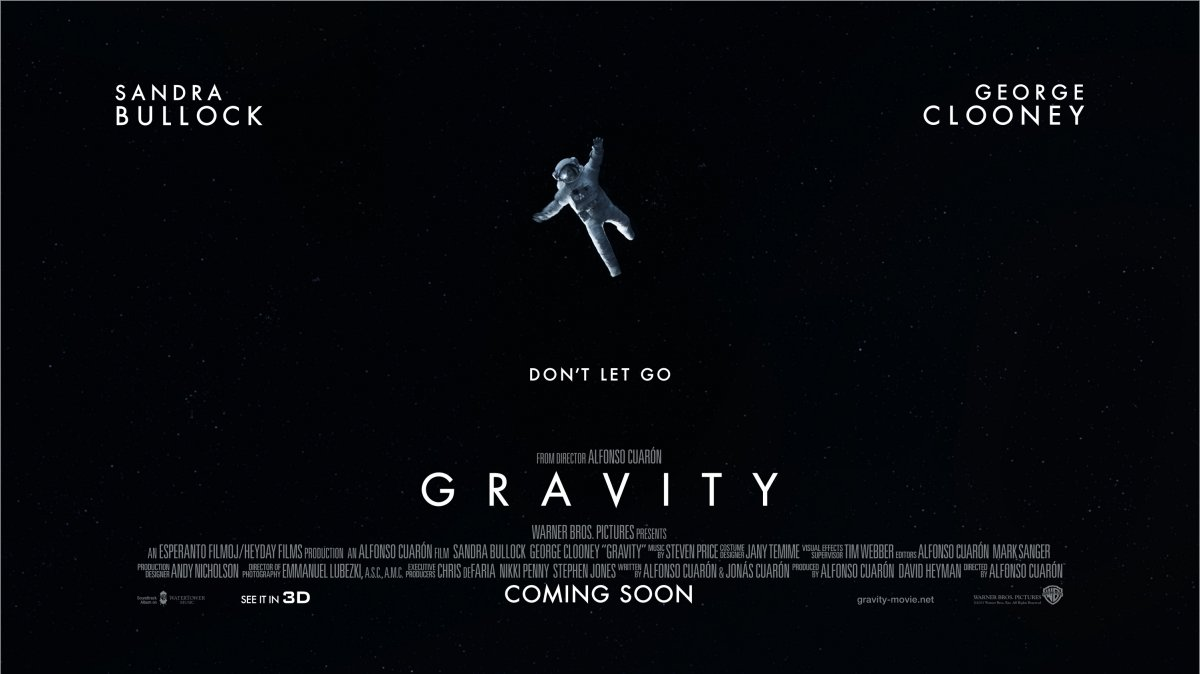
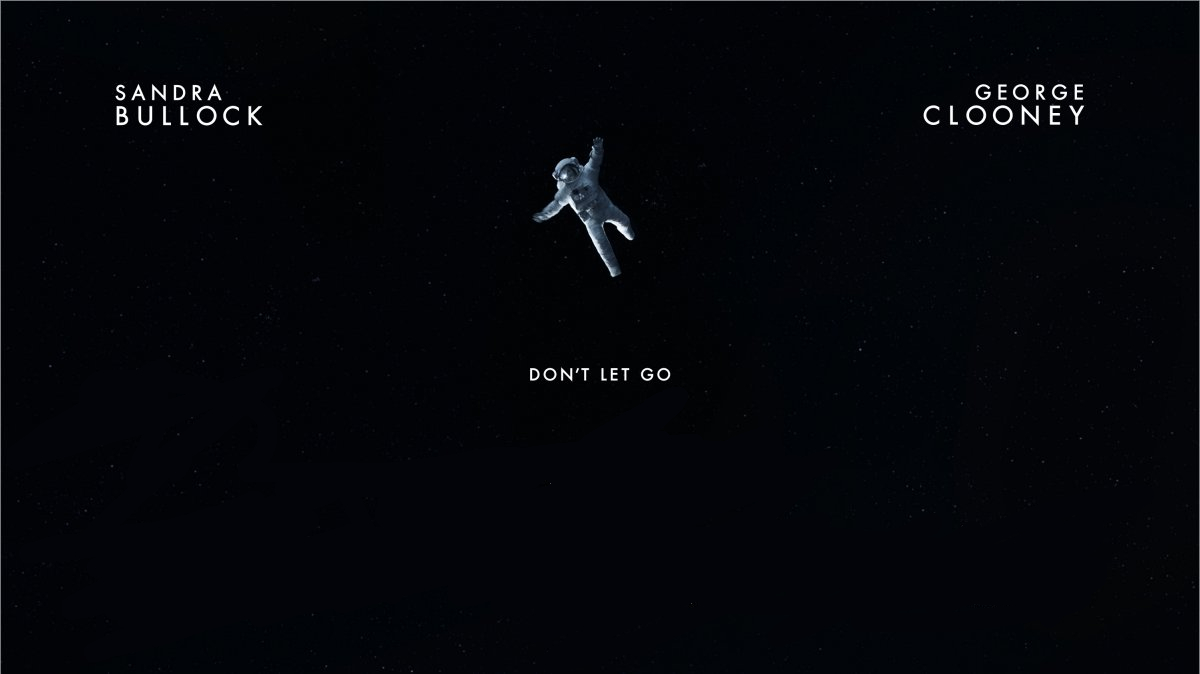
update index, added viewified frontpage.html

Changed region(s): [[0.1233, 0.7789, 0.8942, 0.9036], [0.3392, 0.6543, 0.555, 0.7478], [0.5858, 0.6855, 0.6475, 0.7478]]

diff --git a/src/main/webapp/app/feature/frontpage/frontpage.html b/src/main/webapp/app/feature/frontpage/frontpage.html
@@ -1,0 +1,81 @@
+
+<div ng-controller="frontpagecontroller as fpctrl">
+
+
+	<a ui-sref="frontpage"> Click me!!!</a>
+
+	<div id="myCarousel" class="carousel slide" data-ride="carousel"
+		data-target="#mycarousel">
+		<!-- Indicators -->
+		<ol class="carousel-indicators">
+			<li data-target="#myCarousel" data-slide-to="0"></li>
+			<li data-target="#myCarousel" data-slide-to="1" class="active"></li>
+			<li data-target="#myCarousel" data-slide-to="2"></li>
+		</ol>
+
+		<!-- Wrapper for slides -->
+		<div class="carousel-inner" role="listbox">
+			<div class="item active">
+				<img class="img-responsive" src="images/posters/gravity-poster.jpg"
+					alt="Gravity" />
+				<div class="container myCarouselCaption">
+					<div class="carousel-caption d-none d-md-block text-left">
+						<h1>Example headline.</h1>
+						<p>Cras justo odio, dapibus ac facilisis in, egestas eget
+							quam. Donec id elit non mi porta gravida at eget metus. Nullam id
+							dolor id nibh ultricies vehicula ut id elit.</p>
+						<p>
+							<a class="btn btn-lg btn-primary" href="#" role="button">Sign
+								up today</a>
+						</p>
+					</div>
+				</div>
+			</div>
+
+			<div class="item">
+				<img class="img-responsive" src="images/posters/looper-poster.jpg"
+					alt="Looper" />
+				<div class="container myCarouselCaption">
+					<div class="carousel-caption d-none d-md-block text-left">
+						<h1>Example headline.</h1>
+						<p>Cras justo odio, dapibus ac facilisis in, egestas eget
+							quam. Donec id elit non mi porta gravida at eget metus. Nullam id
+							dolor id nibh ultricies vehicula ut id elit.</p>
+						<p>
+							<a class="btn btn-lg btn-primary" role="button">Sign up today</a>
+						</p>
+					</div>
+				</div>
+			</div>
+
+			<div class="item">
+				<img class="img-responsive" src="images/posters/oblivion-poster.jpg"
+					alt="Oblivion" />
+				<div class="container myCarouselCaption">
+					<div class="carousel-caption d-none d-md-block text-left ">
+						<h1>Example headline.</h1>
+						<p>Cras justo odio, dapibus ac facilisis in, egestas eget
+							quam. Donec id elit non mi porta gravida at eget metus. Nullam id
+							dolor id nibh ultricies vehicula ut id elit.</p>
+						<p>
+							<a class="btn btn-lg btn-primary" href="#" role="button">Sign
+								up today</a>
+						</p>
+					</div>
+				</div>
+			</div>
+
+		</div>
+
+		<!-- Left and right controls -->
+		<a class="left carousel-control" data-target="#myCarousel"
+			role="button" data-slide="prev"> <span
+			class="glyphicon glyphicon-chevron-left" aria-hidden="true"></span> <span
+			class="sr-only">Previous</span>
+		</a> <a class="right carousel-control" data-target="#myCarousel"
+			role="button" data-slide="next"> <span
+			class="glyphicon glyphicon-chevron-right" aria-hidden="true"></span>
+			<span class="sr-only">Next</span>
+		</a>
+	</div>
+</div>

diff --git a/src/main/webapp/FrontPage.html b/src/main/webapp/FrontPage.html
@@ -1,49 +1,4 @@
-<!DOCTYPE html>
-<html ng-app>
-<head>
-<title>QA Cinemas</title>
-<meta charset="UTF-8">
-<meta name="viewport" content="width=device-width, initial-scale=1">
-<link rel="stylesheet" href="css/bootstrap.min.css">
-<link rel="stylesheet" href="css/style.css" type="text/css" />
-<link rel="stylesheet" href="css/header.css" type="text/css" />
-<script src="jquery-1.10.2.js"></script>
-<script
-	src="https://ajax.googleapis.com/ajax/libs/jquery/3.1.1/jquery.min.js"></script>
-<script src="js/bootstrap.min.js"></script>
-</head>
-
-
-<body>
-	<nav class="navbar navbar-inverse">
-		<div class="container-fluid">
-			<div class="navbar-header">
-				<a class="navbar-brand" href="about.html"> <img
-					class="img-responsive" src="images/logo.png" alt="QA Cinema Logo"></a>
-				<button type="button" class="navbar-toggle" data-toggle="collapse"
-					data-target="#myNavbar">
-					<span class="icon-bar"></span> <span class="icon-bar"></span> <span
-						class="icon-bar"></span>
-				</button>
-			</div>
-			<div class="collapse navbar-collapse" id="myNavbar">
-				<ul class="nav navbar-nav">
-					<li class="active"><a href="#">Home</a></li>
-					<li><a href="#">What's On</a></li>
-					<li><a href="#">About</a></li>
-					<li><a href="#">Facilities</a></li>
-					<li><a href="#">Booking</a></li>
-				</ul>
-				<ul class="nav navbar-nav navbar-right">
-					<li><a href="#"><span class="glyphicon glyphicon-user"></span>
-							Sign Up</a></li>
-					<li><a href="#"><span class="glyphicon glyphicon-log-in"></span>
-							Login</a></li>
-				</ul>
-			</div>
-		</div>
-	</nav>
-
+<div>
 
 	<div id="myCarousel" class="carousel slide" data-ride="carousel">
 		<!-- Indicators -->
@@ -55,16 +10,19 @@
 
 		<!-- Wrapper for slides -->
 		<div class="carousel-inner" role="listbox">
-			<div class="item">
-				<img src="images/posters/gravity-poster.jpg" alt="Gravity">
-			</div>
-
 			<div class="item active">
-				<img src="images/posters/looper-poster.jpg" alt="Looper">
+				<img class="img-responsive" src="images/posters/gravity-poster.jpg"
+					alt="Gravity">
 			</div>
 
 			<div class="item">
-				<img src="images/posters/oblivion-poster.jpg" alt="Flower">
+				<img class="img-responsive" src="images/posters/looper-poster.jpg"
+					alt="Looper">
+			</div>
+
+			<div class="item">
+				<img class="img-responsive" src="images/posters/oblivion-poster.jpg"
+					alt="Oblivion">
 			</div>
 
 		</div>
@@ -79,7 +37,5 @@
 			<span class="sr-only">Next</span>
 		</a>
 	</div>
-</body>
-<script src="js/angular.min.js"></script>
-
-</html>
+	<script src="js/angular.min.js"></script>
+</div>

diff --git a/src/main/webapp/index.html b/src/main/webapp/index.html
@@ -1,20 +1,28 @@
 <!DOCTYPE html>
-<html lang="en" ng-app="bookStore">
+<html lang="en" ng-app="QACinema">
 <head>
+<meta name="viewport" content="width=device-width, initial-scale=1">
+<link rel="stylesheet" href="css/bootstrap.min.css">
+<link rel="stylesheet" href="css/style.css">
 
 <meta charset="UTF-8">
-<title>Book Store</title>
+<title>QACinema</title>
 </head>
 
+<body>
+
 	<h1>TEMPLATE</h1>
-	<a ui-sref="book"> Click me!!!</a>
-	<div ui-view>
+	<a ui-sref="frontpage"> Click me!!!</a>
+	<div ui-view class="myWindow">
+
 		<script src="js/angular.js"></script>
 		<script src="js/angular-ui-router.js"></script>
 		<script src="app/app.js"></script>
 		<script src="app/app-state-manager.js"></script>
-		<script src="app/feature/book/bookController.js"></script>
-		<script src="app/feature/other/OtherController.js"></script>
+		<script src="js/jquery-1.10.2.js"></script>
+		<script src="js/bootstrap.min.js"></script>
+		<script src="app/feature/frontpage/frontpagecontroller.js"></script>
+
 	</div>
 
 </body>

diff --git a/src/main/webapp/app/app-state-manager.js b/src/main/webapp/app/app-state-manager.js
@@ -1,15 +1,12 @@
 
 "use strict";
 (function() {
-	angular.module('bookStore').config(
-			function($stateProvider, $urlRouterProvider) {
-				$urlRouterProvider.otherwise("/book");
-				$stateProvider.state("book", {
-					url : "/book",
-					templateUrl : "app/feature/book/books.html"
-				}).state("other", {
-					url : "/other",
-					templateUrl : "app/feature/other/other.html"
-				})
-			});
+	angular.module('QACinema').config(
+		function($stateProvider, $urlRouterProvider) {
+			$urlRouterProvider.otherwise("/frontpage");
+			$stateProvider.state("frontpage", {
+				url : "/frontpage",
+				templateUrl : "app/feature/frontpage/frontpage.html"
+			})
+		});
 }());

diff --git a/src/main/webapp/css/style.css b/src/main/webapp/css/style.css
@@ -13,6 +13,7 @@ body {
 	min-height: 75%;
 	margin-left: auto;
 	margin-right: auto;
+	margin: auto;
 	font-family: "Inconsolata", sans-serif;
 }
 
@@ -89,10 +90,27 @@ h4 {
 	text-align: center;
 }
 
+#myCarousel {
+	height: 100%;
+	background-color: #000;
+}
+
+.carousel-inner {
+	height: 100%;
+}
+
 .carousel-inner>.item>img, .carousel-inner>.item>a>img {
-	width: 80%;
 	margin: auto;
-	height: 600px;
+	width: 100%;
+}
+
+.myWindow {
+	height: 80%;
+}
+
+.myCarouselCaption{
+	background-color:#000;
+	opacity:1.0;
 }
 
 @media ( max-width : 1200px) {

diff --git a/src/main/webapp/app/feature/frontpage/frontpagecontroller.js b/src/main/webapp/app/feature/frontpage/frontpagecontroller.js
@@ -1,0 +1,7 @@
+(function() {
+	var FrontPageController = function() {
+		var vm = this;
+	};
+	angular.module('QACinema').controller('frontpagecontroller',
+			[ FrontPageController ]);
+}());

diff --git a/src/main/webapp/current.html b/src/main/webapp/current.html
@@ -3,7 +3,7 @@
 <head>
 <meta charset="ISO-8859-1">
 <title>QA Cinema - Current</title>
-<script src="jquery-1.10.2.js"></script>
+<script src="js/jquery-1.10.2.js"></script>
 
 </head>
 <body>

diff --git a/src/main/webapp/app/app.js b/src/main/webapp/app/app.js
@@ -1,3 +1,3 @@
 
-var demoApp = angular.module('bookStore', [ 'ui.router' ]);
+var demoApp = angular.module('QACinema', [ 'ui.router' ]);
 
